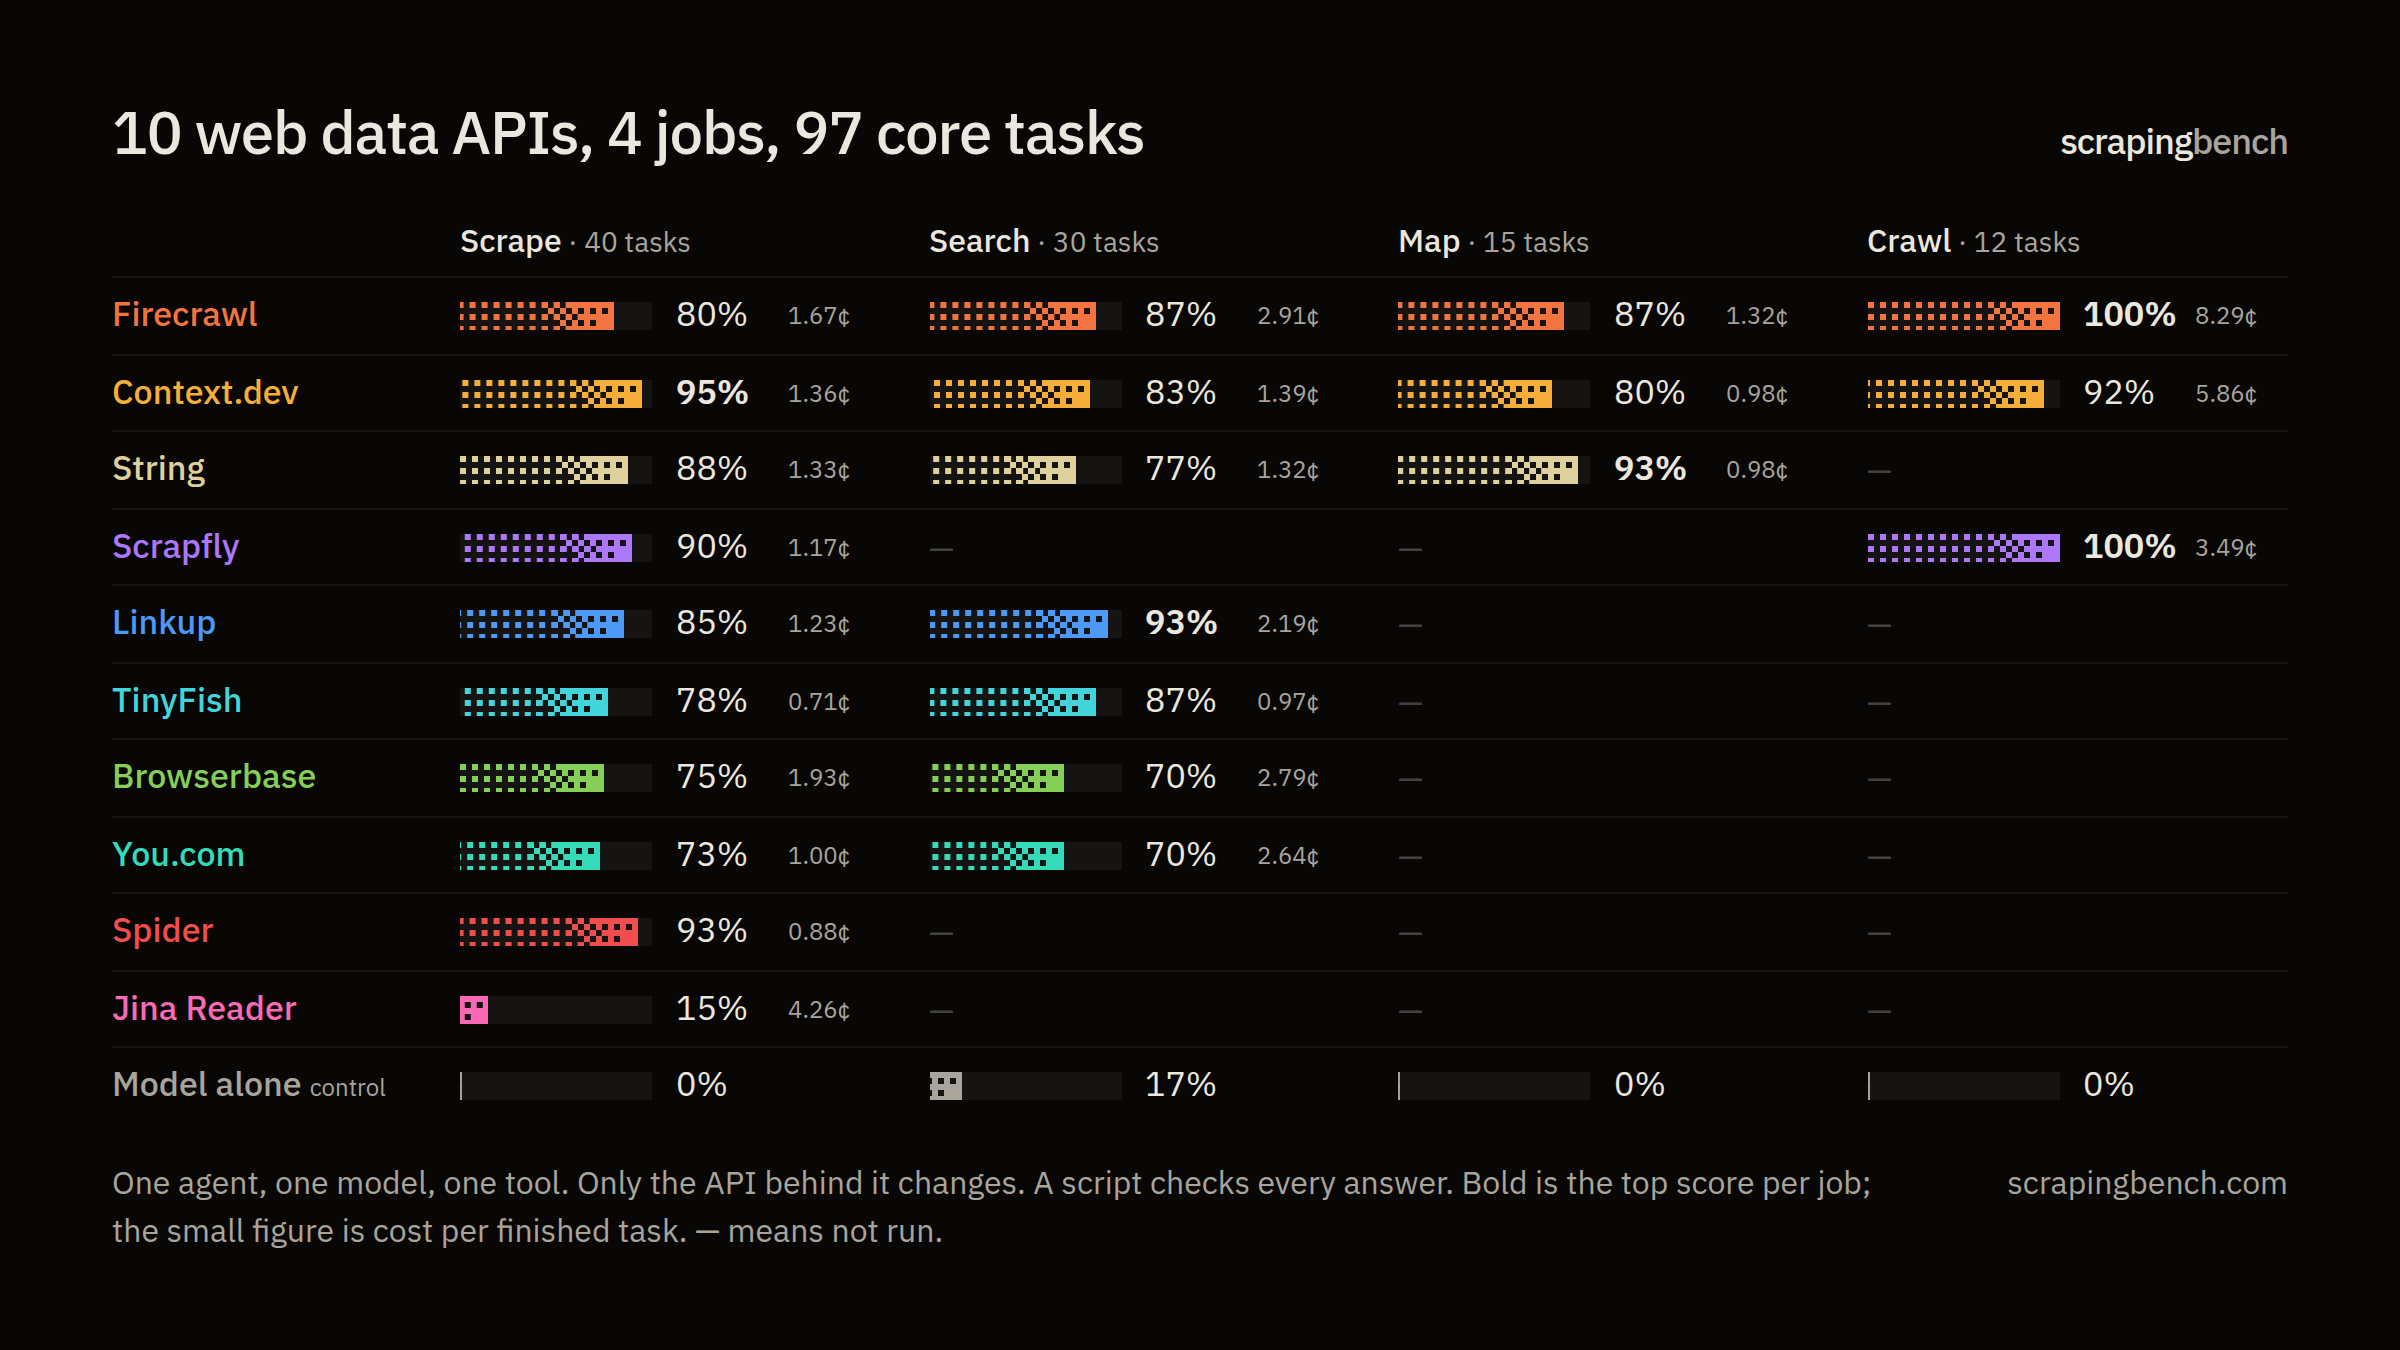
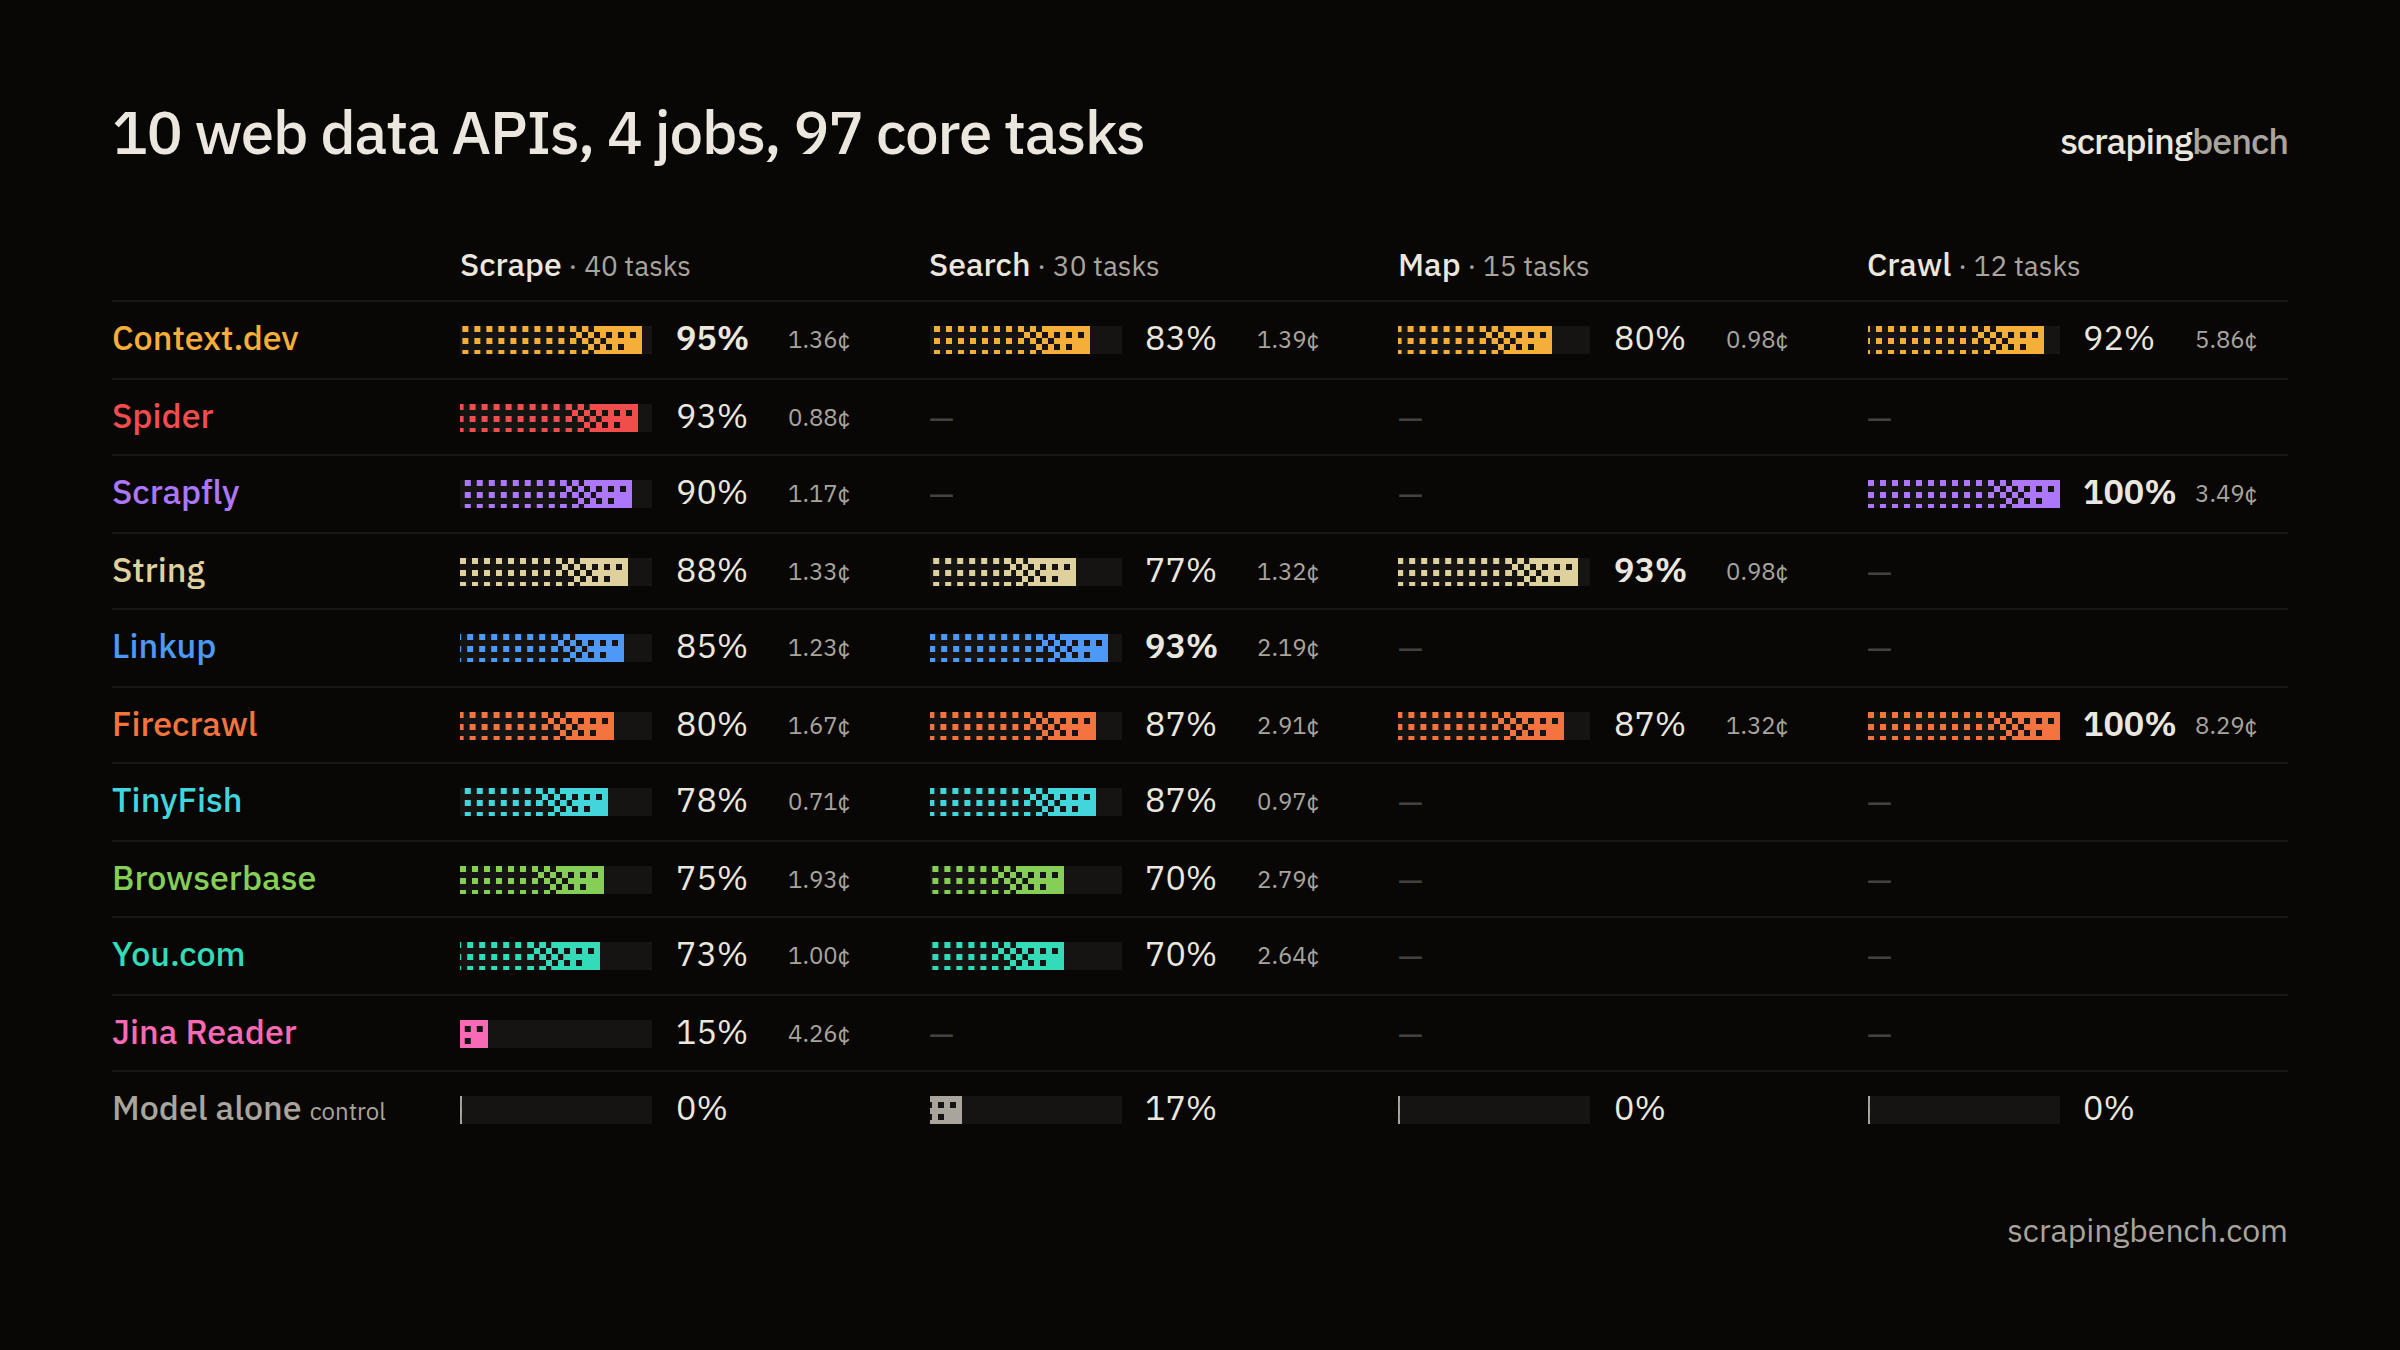
fix: rank overview providers by scrape score (SCB-9)

diff --git a/site/src/app/export/page.tsx b/site/src/app/export/page.tsx
@@ -40,9 +40,9 @@ function Overview() {
   const labelOf = (id: string) => tracks.flatMap((t) => t.providers).find((p) => p.id === id)?.label ?? id;
   const scoreOf = (id: string, t: Track) => t.providers.find((p) => p.id === id)?.agent ?? null;
   const best = (t: Track) => Math.max(...t.providers.flatMap((p) => (p.agent ? [p.agent.rate] : [])));
-  const offered = (id: string) => tracks.filter((t) => scoreOf(id, t)).length;
+  const scrapeRate = (id: string) => (tracks[0] ? (scoreOf(id, tracks[0])?.rate ?? -1) : -1);
   const mean = (id: string) => tracks.reduce((a, t) => a + (scoreOf(id, t)?.rate ?? 0), 0);
-  ids.sort((a, b) => offered(b) - offered(a) || mean(b) - mean(a));
+  ids.sort((a, b) => scrapeRate(b) - scrapeRate(a) || mean(b) - mean(a));
   const total = tracks.reduce((a, t) => a + t.tasks, 0);
 
   const Cell = ({ s, color, lead }: { s: Score | null; color: string; lead: boolean }) =>
@@ -63,7 +63,7 @@ function Overview() {
     <Card
       id="overview"
       title={`${ids.length} web data APIs, ${tracks.length} jobs, ${total} core tasks`}
-      footer="One agent, one model, one tool. Only the API behind it changes. A script checks every answer. Bold is the top score per job; the small figure is cost per finished task. — means not run."
+      footer=""
     >
       <div className="grid grid-cols-[150px_repeat(4,1fr)] items-center gap-x-6 gap-y-[6px] py-2">
         <span />
